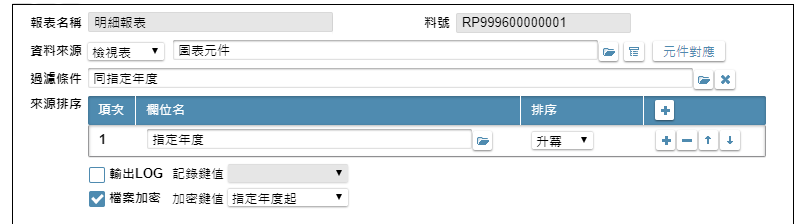
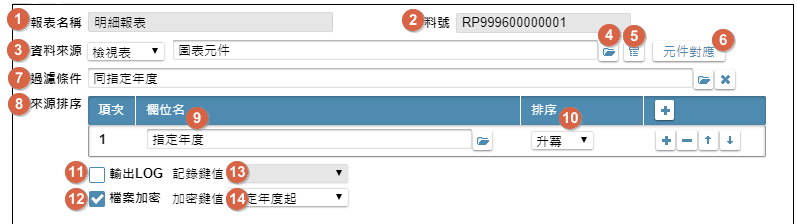
8.10.1 本版異動: ITEM_2:報表規格定義

diff --git a/8.10.1/UPDATE/ITEM_2/IDE/RADataSource/RAConnect.md b/8.10.1/UPDATE/ITEM_2/IDE/RADataSource/RAConnect.md
@@ -1,0 +1,98 @@
+## <div id="layout">版面相關</div>
+* 版面
+    * ![pic][image_raconnect]
+
+* [版面資訊通則][link_ruleother1]
+
+## <div id="form-action">動作說明</div>
+* 駐留報表_資料來源, 執行按鍵: 對應元件開啟並顯示本單內容
+
+## <div id="object-desc">欄位說明</div>
+
+* <p id="fieldbreak1" style="color:blue;font-weight:bold">基本</p>
+
+    * ![pic][image_raconnect_block1]
+    * `(1)報表名稱`
+        * 用途說明
+        * 規格說明
+            * 本欄位除能
+    * `(2)料號`
+        * 用途說明
+        * 規格說明
+            * 顯示前單傳入的報表料號
+            * 本欄位除能
+    * `(3)報表元件清單_標題顯示`
+        * 用途說明
+        * 規格說明
+            * 當存在尚未對應報表元件的筆數時, 顯示: 未對應:XX
+            * 當存在重複對應檔案資料的元件筆數時, 顯示: 重複:XX
+    * `(4)報表元件清單_內容`
+        * 用途說明
+        * 規格說明
+            * 顯示報表元件清單，過濾: 駐留報表, 且報表元件類型不存在於【rTP.文字標題、rFrame.框線、rEChart.嵌入圖表、rGrid.表格】
+            * 當報表元件有對應到檔案資料的元件時, 以 ←→ 表示連結, 並顯示: 檔案資料的元件名稱 (ex: *報表元件名稱*←→*檔案資料的元件名稱* )
+            * 當存在重複對應時, 字體變成粗體
+            * 變色顯示, 請參照 [個資加密提示通則][link_ruleother11]
+            * 清單列數最高顯示**20**列, 超過出現垂直捲軸
+    * `(5)輸出欄位清單`
+        * 用途說明
+        * 規格說明
+            * 顯示 [報表_資料來源][raport_radatasource] 中`資料來源_名稱`的欄位清單
+            * 變色顯示, 請參照 [個資加密提示通則][link_ruleother11]
+            * 清單列數最高顯示**20**列, 超過出現垂直捲軸
+    * `(6)自動對應鍵`
+        * 用途說明
+        * 規格說明
+            * 執行前彈出訊息盒【標題: 系統訊息 / 內容: 確認自動對應"報表元件"與"輸出欄位"相同名稱的項目? / 按鍵: 確認、取消】
+                * 確定: 系統執行自動對應，規則如下:
+                    * 報表元件已對應到檔案資料的元件時, 不再進行對應
+                    * 當[報表_資料來源][raport_radatasource]的`資料來源_類別`=資料表, 查詢同報表元件名稱的輸出欄位名, 且不為個資加密及密碼處理的欄位, 進行連結
+                    * 當[報表_資料來源][raport_radatasource]的`資料來源_類別`=檢視表，查詢同報表元件名稱的輸出欄位名, 且不為個資加密且未解密及密碼處理的欄位, 進行連結
+                    * 連結完畢, 將結果依`(4)報表元件清單_內容`規格顯示
+                * 取消: 關閉訊息盒
+        * 動作流程
+            * ![pic][image_flow_auto_mapping]
+    * `(7)單一連結對應`
+        * 用途說明
+        * 規格說明
+            * 在`(4)報表元件清單_內容`指定駐留任一報表元件, 並同時在`(5)輸出欄位清單`指定駐留任一欄位, 則 致能, 否則 除能
+            * 致能時, 執行按鍵進行連結
+        * 動作流程
+            * ![pic][image_flow_single_mapping]
+    * `(8)取消連結對應`
+        * 用途說明
+        * 規格說明
+            * 在`(4)報表元件清單_內容`指定駐留任一報表元件, 且該元件已進行連結, 則 致能, 否則 除能
+            * 致能時, 執行按鍵取消已指定的連結
+        * 動作流程
+            * ![pic][image_flow_calcel_mapping]
+    * `(9)儲存`
+        * 用途說明
+        * 規格說明
+            * 將對應結果儲存, 儲存後顯示訊息盒【標題: 系統訊息 / 內容: [元件對應] 儲存完成。】限時顯示: 3秒
+            * 訊息盒關閉後，再關閉本單
+        * 動作流程
+            * ![pic][image_flow_save]
+    * `(10)取消`
+        * 用途說明
+        * 規格說明
+            * 關閉本單
+        * 動作流程
+            * ![pic][image_flow_cancel]
+
+<!-- 圖片 -->
+[image_raconnect]:attachment/ReportAnnotation_RAConnect.png
+[image_raconnect_block1]:attachment/ReportAnnotation_RAConnect_block1.png
+
+[image_flow_save]:attachment/RAConnectFlow_Save.png
+[image_flow_cancel]:attachment/RAConnectFlow_Cancel.png
+[image_flow_auto_mapping]:attachment/RAConnectFlow_auto_mapping.png
+[image_flow_single_mapping]:attachment/RAConnectFlow_single_mapping.png
+[image_flow_calcel_mapping]:attachment/RAConnectFlow_cancel_mapping.png
+
+<!-- 超連結 -->
+[link_fieldbreak1]:#fieldbreak1 "欄位說明/基本"
+[link_ruleother1]:/8.10.1/IDE/Specification/RulesOther/README#ruleother1 "共用通則_其它/版面資訊通則"
+[link_ruleother11]:/8.10.0/IDE/Specification/RulesOther/README#ruleother11 "共用通則_其它/個資加密提示通則"
+
+[raport_radatasource]:README.md

diff --git a/8.10.1/UPDATE/ITEM_2/IDE/RAGroup/README.md b/8.10.1/UPDATE/ITEM_2/IDE/RAGroup/README.md
@@ -1,0 +1,100 @@
+## <div id="layout">版面相關</div>
+* 版面
+    ![pic][image_report_ragroup]
+
+* [版面資訊通則][link_ruleother1]
+
+## <div id="form-action">動作說明</div>
+* 參照 [單據異動資料按鍵操作通則][link_rulebutton2]
+    * 下列欄位, 除規格說明中有額外說明, 否則所有欄位在瀏覽狀態: 除能 ; 編輯狀態: 致能
+
+
+## <div id="object-desc">欄位說明</div>
+
+* <p id="fieldbreak1" style="color:blue;font-weight:bold">基本</p>
+
+    * ![pic][image_report_ragroup_block1]
+    * `(1)報表名稱`
+        * 用途說明
+        * 規格說明
+            * 本欄位唯讀
+    * `(2)料號`
+        * 用途說明
+        * 規格說明
+            * 顯示前單傳入的報表料號
+            * 本欄位除能, 不提供編輯
+    * `(3)階層別`
+        * 用途說明
+        * 規格說明
+            * 顯示報表階層清單, 過濾: 駐留筆報表
+    * `(4)資料欄位`
+        * 用途說明
+        * 規格說明
+            * 顯示報表元件清單，過濾: 駐留筆報表, 且報表元件類型不存在【rTP.文字標題、rFrame.框線、rEChart.嵌入圖表、rImg.圖片、rLogo.企業標誌、rGrid.表格】
+    * `(5)分群項目`
+        * 用途說明
+        * 規格說明
+            * 顯示方式: *階層名稱*.*資料欄位名稱*
+    * `(6)加入_分群項目`
+        * 用途說明
+        * 規格說明
+            * 在`(3)階層別`指定駐留任一報表階層, 並同時在`(4)資料欄位`指定駐留任一欄位, 且駐留的階層+資料欄位不存在`(5)分群項目`中, 則 致能, 否則 除能
+            * 執行按鍵時, 將指定的階層及資料欄位加入至`(5)分群項目`中
+    * `(7)清除_分群項目`
+        * 用途說明
+        * 規格說明
+            * 在`(5)分群項目`指定駐留任一記錄, 則 致能, 否則 除能
+            * 執行按鍵, 將駐留筆從`(5)分群項目`中清除
+    * `(8)上移`
+        * 用途說明
+        * 規格說明
+            * 在`(5)分群項目`指定駐留任一記錄, 且`(5)分群項目`記錄筆數>1, 且駐留筆非第一筆時, 則 致能, 否則 除能
+            * 執行按鍵，將駐留筆往上移
+    * `(9)下移`
+        * 用途說明
+        * 規格說明
+            * 在`(5)分群項目`指定駐留任一記錄, 且`(5)分群項目`記錄筆數>1, 且駐留筆非最後一筆時, 則 致能, 否則 除能
+            * 執行按鍵，將駐留筆往下移
+    * `(10)分頁模式`
+        * 用途說明
+            * 報表分頁的基礎
+                * 依版面空間：即版面已滿時才會換頁
+                * 依階層別：挑選依據階層，依上述設定階層群組依據異動而分頁
+        * 規格說明
+            * 單一選項: 依版面空間 / 依資料行數/ 依階層別
+    * `(11)依階層別`
+        * 用途說明
+        * 規格說明
+            * 下拉選項: 報表階層名稱, 過濾: 駐留筆報表
+    * `(12)換頁重印`
+        * 用途說明
+            * 指報表換頁時，頁首內容是否於次頁中顯示
+        * 規格說明
+    * `(12)頁尾位置`
+        * 用途說明
+            * 指定頁尾的資訊出現的位置
+                * 固定版面底部，即將頁尾內容固定置於報表最下方
+                * 跟隨資料列，即將頁尾資料內容，置於頁身或階尾內容的下方顯示
+        * 規格說明
+
+## <div id="save-action">儲存檢控</div>
+* 以下欄位符合條件時, 顯示訊息盒, 顯示規則參照 [存回不允空白檢控通則][link_ruleother7]
+    * 當`(5)參數名`=空值
+    * 當`(6)型態`=請選擇
+
+	
+* 以下欄位符合條件時, 顯示訊息盒, 顯示規則參照 [存回其它檢控通則][link_ruleother8]
+	* 當`(5)參數名`存在空白字元, 錯誤訊息內容: 參數名:`(5)參數名`, 不允有空白字元
+
+
+<!-- 圖片 -->
+[image_report_ragroup]:attachment/ReportAnnotation_RAGroup.png
+[image_report_ragroup_block1]:attachment/ReportAnnotation_RAGroup_block1.png
+
+<!-- 超連結 -->
+[link_fieldbreak1]:#fieldbreak1 "欄位說明/基本"
+[link_ruleother1]:/8.10.0/IDE/Specification/RulesOther/README#ruleother1 "共用通則_其它/版面資訊通則"
+[link_ruleother7]:/8.10.0/IDE/Specification/RulesOther/README#ruleother7 "共用通則_其它/存回不允空白檢控通則"
+[link_ruleother8]:/8.10.0/IDE/Specification/RulesOther/README#ruleother8 "共用通則_其它/存回其它檢控通則"
+
+[link_rulebutton2]:/8.10.1/IDE/Specification/RulesButton/README#rulebutton2 "共用通則_按鍵/單據異動資料按鍵操作通則"

diff --git a/8.10.1/UPDATE/ITEM_2/IDE/RADataSource/README.md b/8.10.1/UPDATE/ITEM_2/IDE/RADataSource/README.md
@@ -5,11 +5,9 @@
 * [版面資訊通則][link_ruleother1]
 
 ## <div id="form-action">動作說明</div>
-* 依報表規格定義, 結構清單駐留元件及指定加註條件, 顯示本單內容
-* 依報表規格定義, 工具列.編修鍵, 進入本單的編輯模式
+* 依報表規格定義, 結構清單駐留節點:資料來源, 顯示本單內容
 * 參照 [單據異動資料按鍵操作通則][link_rulebutton2]
     * 下列欄位, 除規格說明中有額外說明, 否則所有欄位在瀏覽狀態: 除能 ; 編輯狀態: 致能
-* 作業流程
 
 ## <div id="object-desc">欄位說明</div>
 
@@ -56,12 +54,13 @@
         * 用途說明
         * 規格說明
             * 參照 [操作表格記錄通則][link_rulebutton3]
+            * 表格列數最高顯示**7**列, 超過出現垂直捲軸
     * `(9)欄位名`
         * 用途說明
         * 規格說明
             * 當`(3)資料來源_類別`=檢視表: 參照 [挑選檢視表元件通則][link_ruledialog8], 從`(4)資料來源_名稱`中, 進行檢視表元件挑選, 並限定: 不使用個資加密及密碼處理欄位, 回傳:檢視表元件.
             * 當`(3)資料來源_類別`=資料表: 參照 [挑選資料表元件通則][link_ruledialog5], 從`(4)資料來源_名稱`中, 進行資料表元件挑選, 並限定: 不使用個資加密及密碼處理欄位, 回傳:資料表元件.
-            * 若為個資加密或密碼處理的欄位, 則顯示為藍色字體
+            * 變色顯示, 請參照 [個資加密提示通則][link_ruleother11]
         * 動作流程
             * ![pic][image_flow_rasCode]
     * `(10)排序`

diff --git a/8.10.1/UPDATE/ITEM_2/IDE/ReportAnnotation/README.md b/8.10.1/UPDATE/ITEM_2/IDE/ReportAnnotation/README.md
@@ -33,7 +33,7 @@
             * 當報表接受外部的條件指定時，可利用參數方式接收資訊，做為後續處理的依據。
         * 規格說明
             * 參照 [操作表格記錄通則][link_rulebutton3]
-            * 表格列數最高顯示10列, 超過出現垂直scroll bar
+            * 表格列數最高顯示**10**列, 超過出現垂直捲軸
     * `(4)項次`
         * 用途說明
         * 規格說明

diff --git a/8.10.1/UPDATE/ITEM_2/IDE/_sidebar.md b/8.10.1/UPDATE/ITEM_2/IDE/_sidebar.md
@@ -10,6 +10,6 @@
     * 報表
         * [基本設定](ReportAnnotation/README)
         * [資料來源](RADataSource/README)
-        * [分頁模式](RAGroupBy/README)
+        * [分頁模式](RAGroup/README)
     * 報表元件
         * [基本設定](ReportObjectAnnotation/README)

diff --git a/8.10.1/UPDATE/ITEM_2/IDE/RAGroup/_sidebar.md b/8.10.1/UPDATE/ITEM_2/IDE/RAGroup/_sidebar.md
@@ -1,8 +1,6 @@
-# 報表_資料來源
+# 報表_分頁模式
 * [上一頁](../README.md)
 * [版面相關](README#layout)
 * [動作說明](README#form-action)
 * [欄位說明](README#object-desc)
 * [儲存檢控](README#save-action)
-* 其它
-    * [報表元件對應](RAConnect.md)
